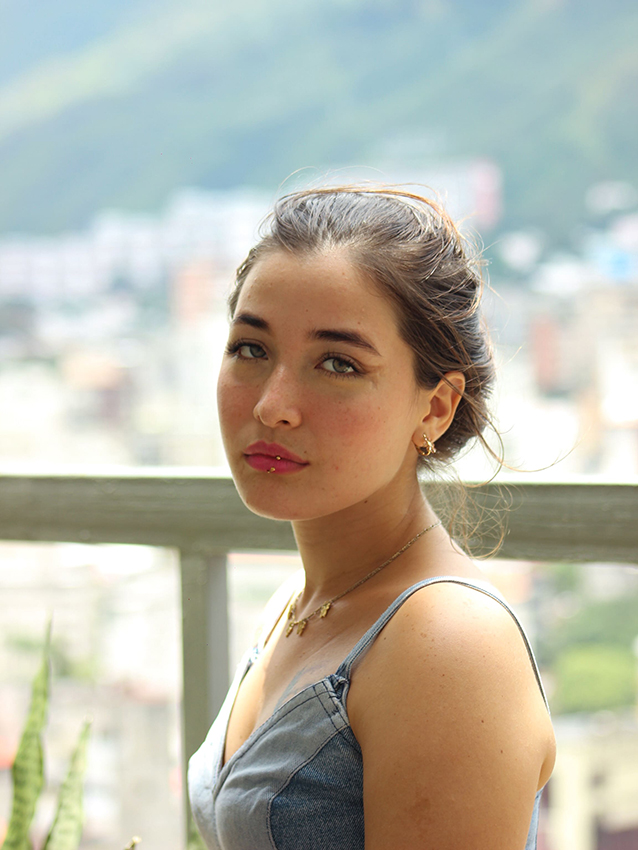
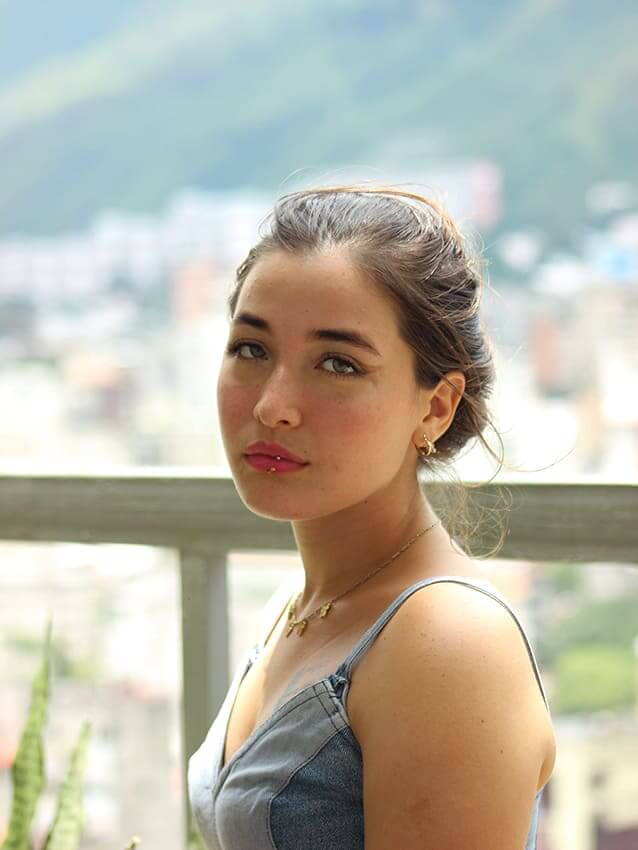
optimizacion
se optimizo las imagenes

diff --git a/src/component/pages/Galeria.jsx b/src/component/pages/Galeria.jsx
@@ -1,5 +1,5 @@
 import style from '../styles/Galeria.module.css'
-import { bodasImages, graduacionesImages,  libresImages } from '../../assets/imagenes/imagenes'
+import { bodasImages, graduacionesImages, libresImages } from '../../assets/imagenes/imagenes'
 
 const Galeria = () => {
 
@@ -13,7 +13,7 @@ const Galeria = () => {
           <div className={style.catalogoB}>
             {bodasImages.map((imageName, index) => (
               <a key={index} href="#">
-                <img key={index} src={imageName} alt={`imagenen ${index + 1}`} />
+                <img key={index} src={imageName} alt={`imagenen ${index + 1}`} loading="lazy" />
               </a>
             ))}
           </div>
@@ -23,7 +23,7 @@ const Galeria = () => {
           <div className={style.catalogoG}>
             {graduacionesImages.map((imageNameg, index) => (
               <a key={index} href="#">
-                <img key={index} src={imageNameg} alt={`imagenen ${index + 1}`} />
+                <img key={index} src={imageNameg} alt={`imagenen ${index + 1}`} loading="lazy" />
               </a>
             ))}
           </div>
@@ -33,7 +33,7 @@ const Galeria = () => {
           <div className={style.catalogoL}>
             {libresImages.map((imageName, index) => (
               <a key={index} href="#">
-                <img key={index} src={imageName} alt={`imagenen ${index + 1}`} />
+                <img key={index} src={imageName} alt={`imagenen ${index + 1}`} loading="lazy" />
               </a>
             ))}
           </div>

diff --git a/src/component/styles/Home.module.css b/src/component/styles/Home.module.css
@@ -1,7 +1,7 @@
 .ImgPortada {
     width: 100%;
     height: 60vh;
-    background-image: url(/src/assets/imagenes/hero/home.jpg);
+    background-image: url(/src/assets/imagenes/hero/home.webp);
     background-size: cover;
     background-position: center center;
 }
@@ -9,7 +9,7 @@
     .ImgPortada {
         width: 100%;
         height: 60vh;
-        background-image: url(/src/assets/imagenes/hero/home.jpg);
+        background-image: url(/src/assets/imagenes/hero/home.webp);
         background-size: cover;
         background-position: center center;
     }
